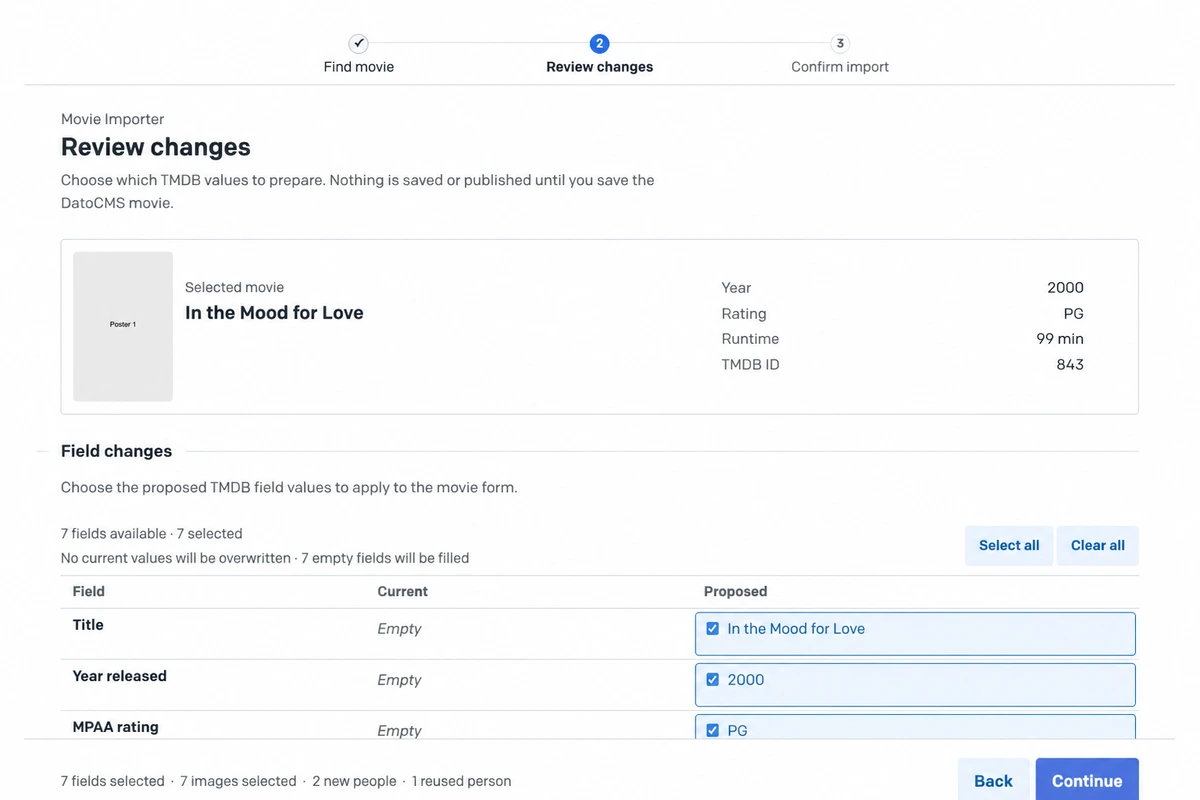
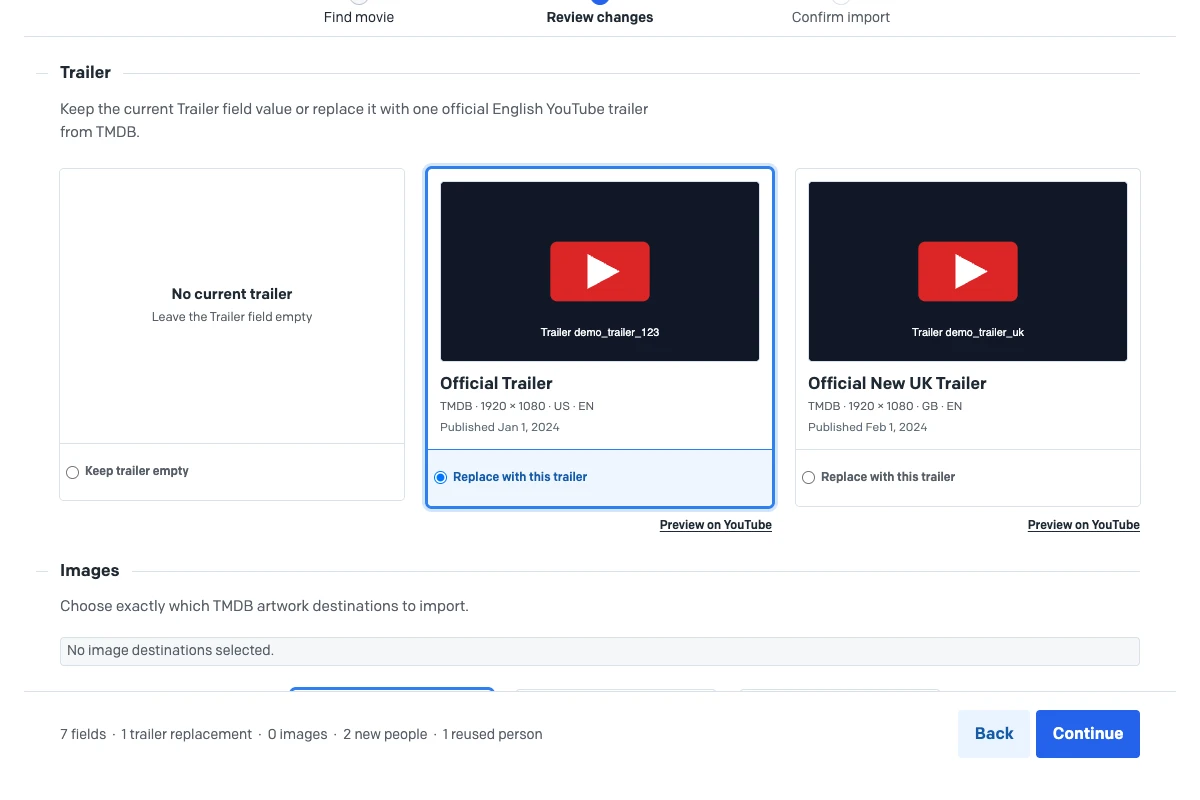
📝 docs(release): reconcile Marketplace readiness

diff --git a/docs/release-guide.md b/docs/release-guide.md
@@ -6,6 +6,18 @@ This guide prepares a release. It does not authorize any deployment, publication
 
 The repository proves that the manual deployment workflow and release checks exist. A push to `main` does not deploy this plugin because the Pages workflow requires an explicit GitHub Actions dispatch. GitHub production-environment restrictions, repository secrets, Cloudflare project state, deployment success, and DatoCMS sandbox acceptance live outside the repository and must be checked and recorded for each release.
 
+## Current readiness snapshot
+
+As of August 18, 2026:
+
+- `origin/main` and the stable Cloudflare Pages deployment are at `094dc0934e004b62fb80185a2d912bcf70dabcdb`.
+- Local `main` includes the **Movie Importer** rename through merge commit `0661969d0804d8e17e7d4225edf535e2d7b66782`. The rename and this documentation reconciliation have not been pushed, deployed, or accepted in DatoCMS.
+- One trailer-replacement import against the deployed commit selected **Official Countdown Trailer**, runtime `173`, and tagline **Defy the gods.** The values appeared in the unsaved movie form. The flow selected no images, created no people, did not save or publish, and produced no console warnings or errors during the import.
+- That result is partial acceptance, not a complete release sign-off. The current-only/no-alternatives trailer state, matching-trailer deduplication, restricted-role behavior, image imports, and the remaining README checklist still need sandbox evidence.
+- The Marketplace cover and preview have been refreshed locally. The cover uses a thumbnail-first Movie Importer logotype; the preview shows the current trailer picker and zero selected image destinations. They remain unpublished and still require release-owner approval with the rest of the package.
+
+Update this snapshot when any commit, push, deployment, npm publication, or DatoCMS acceptance state changes. Do not infer one state from another.
+
 ## Release surfaces
 
 The same package supports two delivery paths:
@@ -21,7 +33,9 @@ Keep the private installation in place until the Marketplace installation has be
 2. Run `npm run verify:release` and inspect the package with `npm pack --dry-run --json`.
 3. Confirm the package contains only intended public files and no tokens, environment files, source maps, private identifiers, planning documents, or production content.
 4. Check the DatoCMS sandbox schema, roles, and permissions described in the README.
-5. Confirm the exact version, npm tag, Cloudflare Pages target, and rollback commit with the release owner.
+5. Confirm the `homepage` and `bugs` URLs are publicly reachable and suitable for Marketplace users.
+6. Inspect and explicitly approve the Marketplace cover and preview at both full size and Marketplace-card size.
+7. Confirm the exact version, npm tag, Cloudflare Pages target, and rollback commit with the release owner.
 
 ## Private deployment
 
@@ -75,11 +89,14 @@ CLOUDFLARE_API_TOKEN="$TMDB_CLOUDFLARE_PAGES_TOKEN" \
 
 ## Canary publication
 
-1. Publish only the approved prerelease package version, such as `0.1.0-next.0`, under npm's `next` tag.
-2. Install the package in a DatoCMS sandbox through Developer Zone. Do not alter the live private installation during this test.
-3. Re-enter configuration, verify field mappings and the manually attached TMDB ID add-on, then complete the acceptance checklist.
-4. Check the configuration credits area for the TMDB logo and required notice.
-5. Record the package version, npm integrity, DatoCMS sandbox result, and any support notes.
+DatoCMS discovers compliant packages from npm. A canary published under a non-`latest` dist-tag remains available for owner testing through Developer Zone; publishing under `latest` makes a compliant package eligible for automatic Marketplace discovery. See DatoCMS's guides to [releasing canary versions](https://www.datocms.com/docs/plugin-sdk/releasing-new-plugin-versions) and [publishing to Marketplace](https://www.datocms.com/docs/plugin-sdk/publishing-to-marketplace).
+
+1. Confirm npm authentication, package-name ownership, and the approved prerelease version without printing credentials.
+2. Publish only the approved prerelease package version, such as `0.1.0-next.0`, under npm's `next` tag.
+3. Install the package in a DatoCMS sandbox through Developer Zone. Do not alter the live private installation during this test.
+4. Re-enter configuration, verify field mappings and the manually attached TMDB ID add-on, then complete the acceptance checklist.
+5. Check the configuration credits area for the TMDB logo and required notice.
+6. Record the package version, npm integrity, DatoCMS sandbox result, and any support notes.
 
 ## Promotion
 
@@ -87,7 +104,7 @@ Promote only after the private deployment and Marketplace canary both pass sandb
 
 1. Confirm the public source and package contain no private material.
 2. Publish the identical approved source as `0.1.0` under npm's `latest` tag and create the matching Git tag.
-3. Verify the Marketplace listing title, publisher, screenshots, package entry point, permissions, and TMDB attribution.
+3. Confirm the package appears in Marketplace, then verify its title, publisher, screenshots, package entry point, permissions, homepage, support link, and TMDB attribution. DatoCMS says compliant packages normally appear automatically within one hour; investigate the package metadata and contact DatoCMS support if it is still absent after three hours.
 4. Test a fresh Marketplace installation in the sandbox before scheduling any private-to-Marketplace migration.
 5. Plan the migration as a separate change: export or record settings, reinstall from Marketplace, reattach the field add-on if needed, verify mappings, and test an import before removing the private installation.
 

diff --git a/README.md b/README.md
@@ -8,9 +8,9 @@ The package is currently version `0.1.0-next.0`. The plugin provides configurati
 
 Artwork selection is opt-in. No poster or backdrop candidate starts selected. When Poster or Hero image is configured, the explicit **Do not import** card starts selected. Poster candidates are limited to English-language artwork. Posters are revealed ten at a time in TMDB rank order, while backdrops prioritize 3840x2160 candidates before falling back to TMDB rank order. A backdrop can be assigned to Hero image or Other images, but never both.
 
-Trailer import selects one deterministic official English YouTube trailer when TMDB provides one. The proposal starts selected only when the mapped DatoCMS Trailer field is empty. A different current trailer stays unselected until the editor opts in, and no fallback candidate appears when TMDB has no qualifying trailer. The plugin opens preview links on YouTube, and it never embeds or uploads video.
+Trailer import presents every eligible official English YouTube trailer returned by TMDB in a single-choice card grid. The existing DatoCMS trailer, or an explicit empty-field option, starts selected so an import never changes the Trailer field without an editor choosing a TMDB candidate. A matching current trailer is deduplicated from the TMDB choices. The cards support arrow keys plus Home and End, open preview links on YouTube, and never embed or upload video.
 
-Trailer behavior is implemented on the current branch, covered by the automated release gate, and verified through a deployed DatoCMS sandbox trailer-replacement import. The broader Marketplace acceptance matrix remains pending.
+The trailer picker is covered by the automated release gate. A deployed DatoCMS sandbox replacement flow also confirmed that one selected trailer and selected metadata persisted in the unsaved movie form without importing images, creating people, saving, or publishing. That evidence applies to deployed commit `094dc0934e004b62fb80185a2d912bcf70dabcdb`. The later **Movie Importer** rename is merged only into local `main` as of August 18, 2026; it has not been pushed, deployed, or accepted in DatoCMS. The current-only/no-alternatives case, matching-trailer deduplication, restricted-role behavior, image imports, and the rest of the Marketplace acceptance matrix remain pending.
 
 The repository contains a manually triggered Cloudflare Pages deployment workflow, but source, build, push, deployment, DatoCMS installation, and sandbox acceptance are separate states. A checkout or passing test suite does not prove that a Pages deployment or DatoCMS installation is current.
 
@@ -77,9 +77,10 @@ Before any release, use a DatoCMS sandbox with configured mappings, a shared Per
 - [ ] Direct TMDB ID refresh works.
 - [ ] Empty metadata fields are selected by default and populated metadata fields are unselected by default.
 - [ ] Missing TMDB values cannot clear existing content.
-- [ ] An empty Trailer field starts with the official English YouTube proposal selected when TMDB provides one.
-- [ ] A different existing Trailer starts unselected, and the editor can opt in to replacement.
-- [ ] An already-current Trailer shows **Already current trailer** and cannot be selected.
+- [ ] An empty Trailer field starts with **Keep trailer empty** selected, and the editor can choose one eligible TMDB trailer.
+- [ ] An existing Trailer appears as the selected **Keep current trailer** card, and the editor can choose a different eligible TMDB trailer.
+- [ ] A TMDB trailer that matches the current Trailer is deduplicated; if it is the only match, the UI says no alternatives are available.
+- [ ] Arrow keys move through trailer choices, and Home and End move to the first and last choices.
 - [ ] No eligible TMDB trailer leaves the current Trailer value untouched.
 - [ ] Trailer preview opens on YouTube in a new tab, and no trailer embed or upload appears in the modal.
 - [ ] Ambiguous people require an editor choice.

diff --git a/docs/documentation-map.md b/docs/documentation-map.md
@@ -7,12 +7,16 @@ Use this index to distinguish current operating documentation from implementatio
 - [`README.md`](../README.md): current product behavior, schema setup, local development, known limits, and the manual DatoCMS sandbox checklist.
 - [`CHANGELOG.md`](../CHANGELOG.md): user-facing and operational changes by release state.
 - [`release-guide.md`](release-guide.md): active private-deployment, Marketplace, rollback, and support runbook. It prepares release work but does not authorize it.
-- [`marketplace/cover.webp`](marketplace/cover.webp) and [`marketplace/preview.webp`](marketplace/preview.webp): sanitized package-listing artwork.
+- [`marketplace/cover.webp`](marketplace/cover.webp) and [`marketplace/preview.webp`](marketplace/preview.webp): sanitized package-listing artwork. The cover uses a thumbnail-first Movie Importer logotype. The preview shows the current trailer picker with no image destinations selected.
+- [`marketplace/cover-source.svg`](marketplace/cover-source.svg): editable source for the rasterized Marketplace cover. DatoCMS does not accept SVG cover files, so the packaged cover remains WebP.
+
+## Implemented design records
+
+- [`TMDB Trailer Import Design`](superpowers/specs/2026-08-17-tmdb-trailer-import-design.md): original design record for importing an official English YouTube trailer into a native DatoCMS External Video field. The current implementation extends it with an editor-controlled multi-candidate picker.
+- [`TMDB Trailer Import Implementation Plan`](superpowers/plans/2026-08-17-tmdb-trailer-import.md): implementation record for trailer import verification and release evidence. One deployed replacement flow passed sandbox acceptance; the README lists the remaining cases.
 
 ## Planned work
 
-- [`TMDB Trailer Import Design`](superpowers/specs/2026-08-17-tmdb-trailer-import-design.md): implemented design record for importing one official English YouTube trailer into a native DatoCMS External Video field. Status: Implemented; sandbox acceptance pending.
-- [`TMDB Trailer Import Implementation Plan`](superpowers/plans/2026-08-17-tmdb-trailer-import.md): implementation record for trailer import verification and release evidence. Status: Implemented; sandbox acceptance pending.
 - [`TMDB Asset Source Implementation Plan`](superpowers/plans/2026-07-25-tmdb-asset-source.md): planned native DatoCMS Media Area source. It is not implemented and may require a separately approved server-side image path if direct TMDB URLs fail the DatoCMS CORS requirement.
 
 ## Historical implementation records

diff --git a/CHANGELOG.md b/CHANGELOG.md
@@ -6,7 +6,8 @@ All notable changes to Movie Importer are documented here.
 
 ### Added
 
-- Added optional native Trailer import for one deterministic official English YouTube trailer, mapped to a DatoCMS External Video field without embedding or uploading video.
+- Added optional native Trailer import for official English YouTube trailers, mapped to a DatoCMS External Video field without embedding or uploading video.
+- Added an editor-controlled trailer picker with full candidate cards, the current DatoCMS trailer as a choice, matching-trailer deduplication, and arrow-key, Home, and End navigation.
 
 ### Changed
 
@@ -16,6 +17,8 @@ All notable changes to Movie Importer are documented here.
 - Reduced Review changes image cost with smaller preview URLs, lazy asynchronous decoding, and offscreen card containment while retaining original-resolution uploads.
 - Prioritized 3840x2160 backdrops before other backdrop candidates while preserving TMDB rank order inside each group.
 - Simplified image preparation to preserve TMDB-ranked candidates without browser-side visual fingerprinting.
+- Standardized the public product name as Movie Importer while retaining the existing technical package, repository, and deployment identifiers.
+- Refreshed the Marketplace cover with a thumbnail-first Movie Importer logotype and updated the preview to show the current trailer picker and opt-in image state.
 
 ### Fixed
 
@@ -34,10 +37,6 @@ All notable changes to Movie Importer are documented here.
 - Release-ready Marketplace package metadata and portable build settings.
 - Public installation and release-operation documentation.
 - Required TMDB attribution and an approved TMDB logo in the configuration credits area.
-
-### Changed
-
-- Standardized the public product name as Movie Importer.
 
 ## License and third-party content
 
